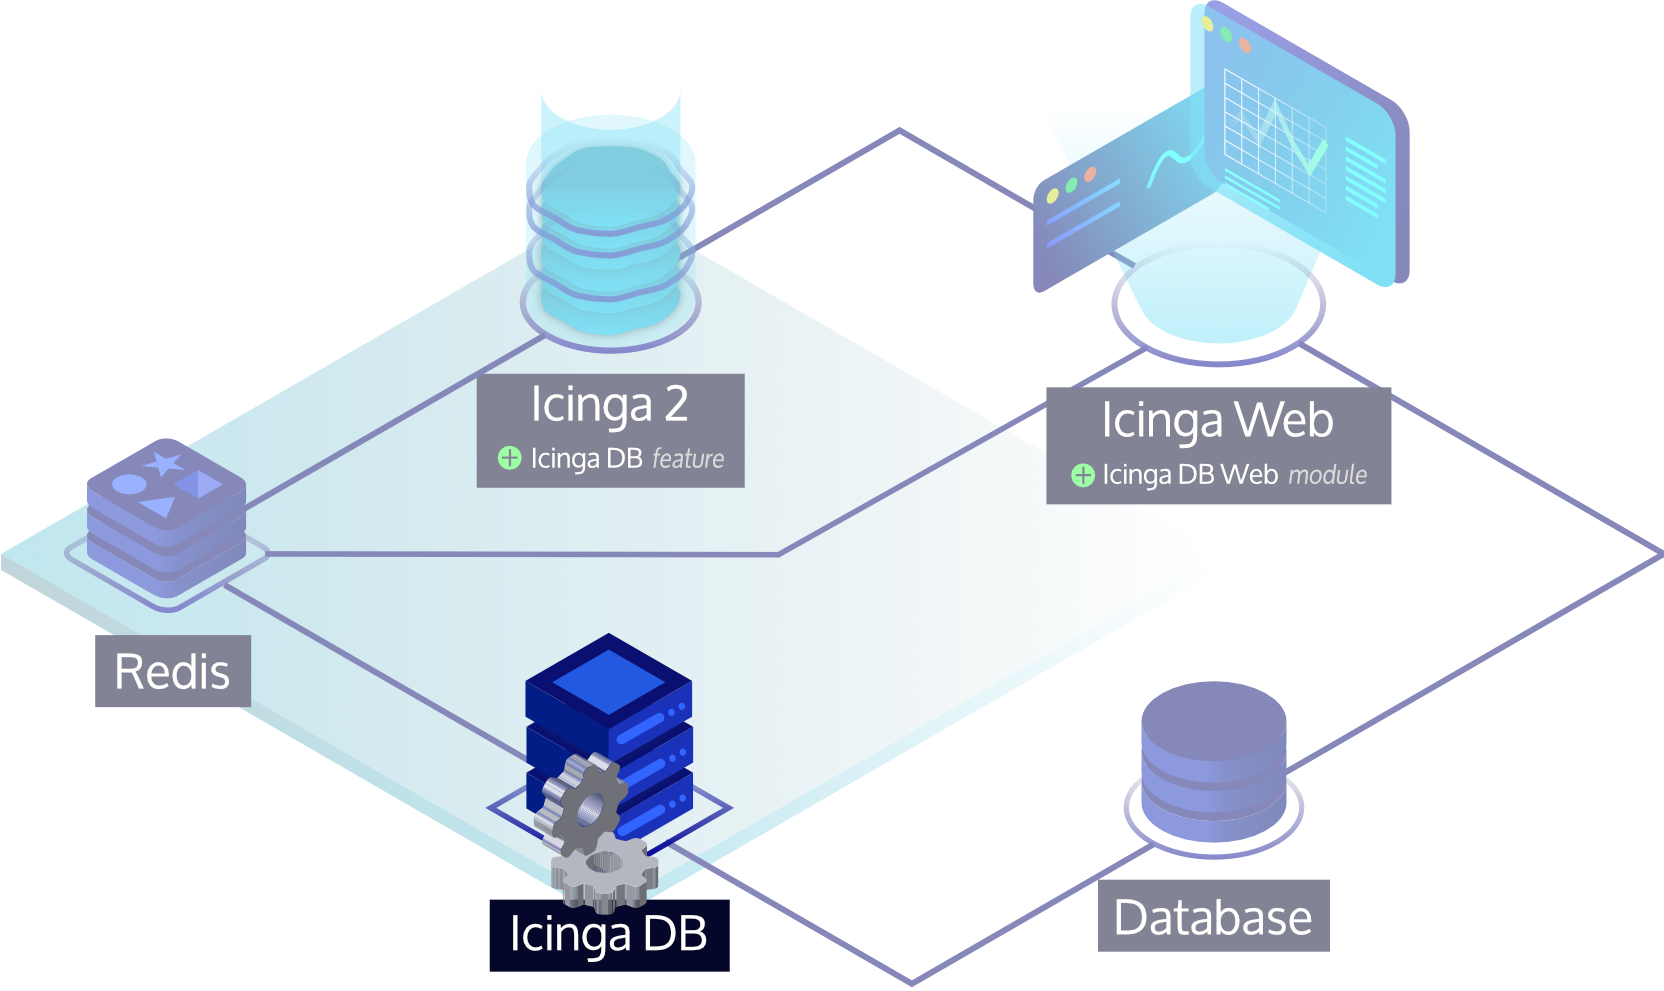
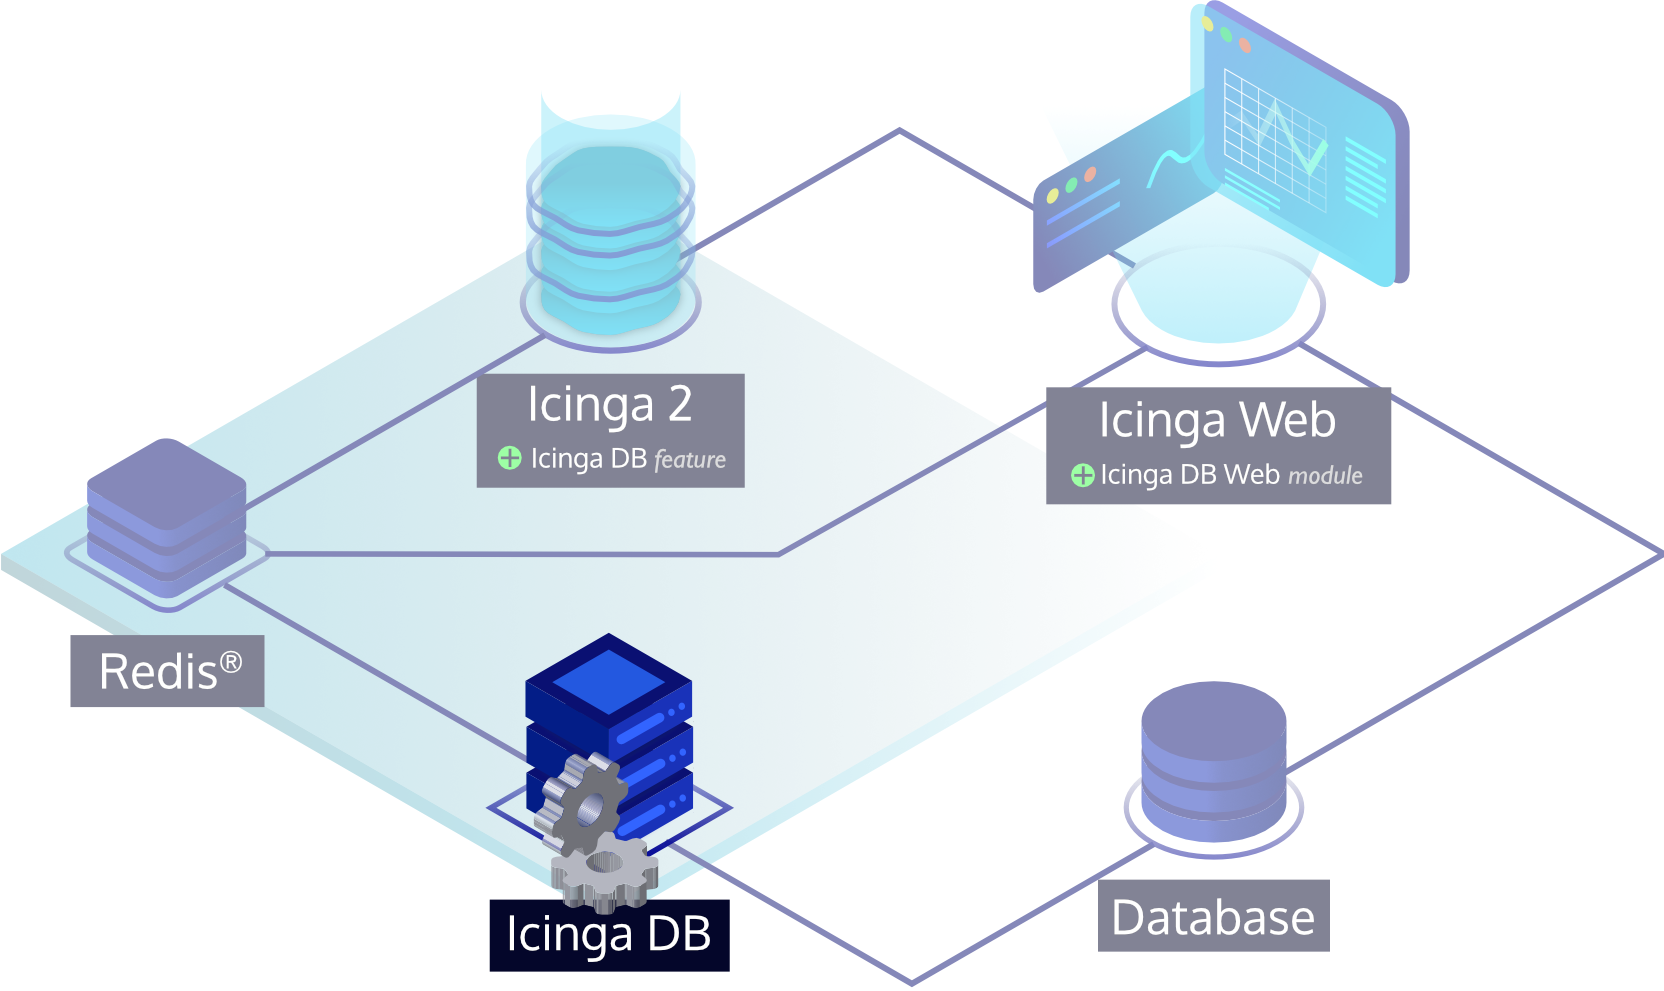
Docs: Account Redis' trademark policy
See https://redis.io/legal/trademark-policy/

diff --git a/doc/03-Configuration.md b/doc/03-Configuration.md
@@ -3,24 +3,24 @@
 The configuration is stored in `/etc/icingadb/config.yml`.
 See [config.example.yml](../config.example.yml) for an example configuration.
 
-## Redis Configuration
+## Redis® Configuration
 
-Connection configuration for the Redis server where Icinga 2 writes its configuration, state and history items.
+Connection configuration for the Redis® server where Icinga 2 writes its configuration, state and history items.
 This is the same connection as configured in the
 [Icinga DB feature](https://icinga.com/docs/icinga-2/latest/doc/14-features/#icinga-db) of
-the corresponding Icinga 2 node. High availability setups require a dedicated Redis server per Icinga 2 node and
+the corresponding Icinga 2 node. High availability setups require a dedicated Redis® server per Icinga 2 node and
 therefore a dedicated Icinga DB instance that connects to it.
 
-| Option   | Description                                                                                                                        |
-|----------|------------------------------------------------------------------------------------------------------------------------------------|
-| host     | **Required.** Redis host or absolute Unix socket path.                                                                             |
-| port     | **Optional.** Redis port. Defaults to `6380` since the Redis server provided by the `icingadb-redis` package listens on that port. |
-| password | **Optional.** The password to use.                                                                                                 |
-| tls      | **Optional.** Whether to use TLS.                                                                                                  |
-| cert     | **Optional.** Path to TLS client certificate.                                                                                      |
-| key      | **Optional.** Path to TLS private key.                                                                                             |
-| ca       | **Optional.** Path to TLS CA certificate.                                                                                          |
-| insecure | **Optional.** Whether not to verify the peer.                                                                                      |
+| Option   | Description                                                                                                             |
+|----------|-------------------------------------------------------------------------------------------------------------------------|
+| host     | **Required.** Host name or address, or absolute Unix socket path.                                                       |
+| port     | **Optional.** TCP port. Defaults to `6380` matching the Redis® open source server port in the `icingadb-redis` package. |
+| password | **Optional.** Authentication password.                                                                                  |
+| tls      | **Optional.** Whether to use TLS.                                                                                       |
+| cert     | **Optional.** Path to TLS client certificate.                                                                           |
+| key      | **Optional.** Path to TLS private key.                                                                                  |
+| ca       | **Optional.** Path to TLS CA certificate.                                                                               |
+| insecure | **Optional.** Whether not to verify the peer.                                                                           |
 
 ## Database Configuration
 
@@ -76,19 +76,19 @@ Configuration of the logging component used by Icinga DB.
 
 ### Logging Components
 
-| Component         | Description                                                                    |
-|-------------------|--------------------------------------------------------------------------------|
-| config-sync       | Config object synchronization between Redis and MySQL.                         |
-| database          | Database connection status and queries.                                        |
-| dump-signals      | Dump signals received from Icinga.                                             |
-| heartbeat         | Icinga heartbeats received through Redis.                                      |
-| high-availability | Manages responsibility of Icinga DB instances.                                 |
-| history-sync      | Synchronization of history entries from Redis to MySQL.                        |
-| overdue-sync      | Calculation and synchronization of the overdue status of checkables.           |
-| redis             | Redis connection status and queries.                                           |
-| retention         | Deletes historical data that exceed their configured retention period.         |
-| runtime-updates   | Runtime updates of config objects after the initial config synchronization.    |
-| telemetry         | Reporting of Icinga DB status to Icinga 2 via Redis (for monitoring purposes). |
+| Component         | Description                                                                     |
+|-------------------|---------------------------------------------------------------------------------|
+| config-sync       | Config object synchronization between Redis® and MySQL.                         |
+| database          | Database connection status and queries.                                         |
+| dump-signals      | Dump signals received from Icinga.                                              |
+| heartbeat         | Icinga heartbeats received through Redis®.                                      |
+| high-availability | Manages responsibility of Icinga DB instances.                                  |
+| history-sync      | Synchronization of history entries from Redis® to MySQL.                        |
+| overdue-sync      | Calculation and synchronization of the overdue status of checkables.            |
+| redis             | Redis® connection status and queries.                                           |
+| retention         | Deletes historical data that exceed their configured retention period.          |
+| runtime-updates   | Runtime updates of config objects after the initial config synchronization.     |
+| telemetry         | Reporting of Icinga DB status to Icinga 2 via Redis® (for monitoring purposes). |
 
 ## Retention
 

diff --git a/doc/04-Upgrading.md b/doc/04-Upgrading.md
@@ -27,7 +27,7 @@ This release includes fixes for hosts and services reaching check attempt 256. H
 the schema upgrade required to fix the history tables isn't automatically applied by `1.1.2.sql` as a rewrite of the
 whole `state_history` table is required. This can take a lot of time depending on the history size and the performance
 of the database. During this time that table will be locked exclusively and can't be accessed otherwise. This means that
-the existing history can't be viewed in Icinga Web and new history entries will be buffered in Redis.
+the existing history can't be viewed in Icinga Web and new history entries will be buffered in Redis®.
 
 There is a separate upgrade script `optional/1.1.2-history.sql` to perform the rewrite of the `state_history` table.
 This allows you to postpone part of the upgrade to a longer maintenance window in the future, or skip it entirely
@@ -103,7 +103,7 @@ For package installations, you can find this file at `/usr/share/icingadb/schema
 
 Note that this upgrade will change the `history` table, which can take some time depending on the size of the table and
 the performance of the database. While the upgrade is running, that table will be locked and can't be accessed. This
-means that the existing history can't be viewed in Icinga Web and new history entries will be buffered in Redis.
+means that the existing history can't be viewed in Icinga Web and new history entries will be buffered in Redis®.
 
 As the daemon checks the schema version, the recommended way to perform the upgrade is to stop the daemon, apply the
 schema upgrade and then start the new daemon version. If you want to minimize downtime as much as possible, it is safe
@@ -124,20 +124,20 @@ restart the daemon when upgrading the package.
 
 ## Upgrading to Icinga DB RC2
 
-Icinga DB RC2 is a complete rewrite compared to RC1. Because of this, a lot has changed in the Redis and database
+Icinga DB RC2 is a complete rewrite compared to RC1. Because of this, a lot has changed in the Redis® and database
 schema, which is why they have to be deleted and recreated. The configuration file has changed from `icingadb.ini`
 to `config.yml`. Instead of the INI format, we are now using YAML and have introduced more configuration options. We
-have also changed the packages of `icingadb-redis`, which is why the Redis CLI commands are now prefixed with `icingadb`
-instead of just `icinga`, i.e. the Redis CLI is now accessed via `icingadb-redis-cli`.
+have also changed the packages of `icingadb-redis`, which is why the Redis® CLI commands are now prefixed with `icingadb`
+instead of just `icinga`, i.e. the Redis® CLI is now accessed via `icingadb-redis-cli`.
 
 Please follow the steps below to upgrade to Icinga DB RC2:
 
 1. Stop Icinga 2 and Icinga DB.
-2. Flush your Redis instances using `icinga-redis-cli flushall` (note the `icinga` prefix as we did not
+2. Flush your Redis® instances using `icinga-redis-cli flushall` (note the `icinga` prefix as we did not
    upgrade `icingadb-redis` yet) and stop them afterwards.
 3. Upgrade Icinga 2 to version 2.13.2 or newer.
 4. Remove the `icinga-redis` package where installed as it may conflict with `icingadb-redis`.
-5. Install Icinga DB Redis (`icingadb-redis`) on your primary Icinga 2 nodes to version 6.2.6 or newer.
+5. Install Redis® (`icingadb-redis`) on your primary Icinga 2 nodes to version 6.2.6 or newer.
 6. Upgrade Icinga DB to RC2.
 7. Drop the Icinga DB MySQL database and recreate it using the provided schema.
-8. Start Icinga DB Redis, Icinga 2 and Icinga DB.
+8. Start Redis®, Icinga 2 and Icinga DB.

diff --git a/doc/05-Distributed-Setups.md b/doc/05-Distributed-Setups.md
@@ -11,22 +11,22 @@ First, you need an Icinga 2 high availability setup with two master nodes, such 
 [here](https://icinga.com/docs/icinga-2/latest/doc/06-distributed-monitoring#high-availability-master-with-agents).
 
 Each of the master nodes must have the Icinga DB feature enabled and
-have their own dedicated Redis server set up for it, so that each node writes the monitoring data separately.
+have their own dedicated Redis® server set up for it, so that each node writes the monitoring data separately.
 The setup steps per node are no different from a single node setup and can be found in the
 [Icinga 2 installation documentation](https://icinga.com/docs/icinga-2/latest/doc/02-installation).
-Each Redis server will always have the complete data available as long as
-its corresponding Icinga 2 master is running and writing to its Redis.
+Each Redis® server will always have the complete data available as long as
+its corresponding Icinga 2 master is running and writing to its Redis®.
 This is because the Icinga 2 master nodes synchronize their data and events with each other as long as
 they are connected,
 and each takes over the entire configuration in case the other node or their connection to each other fails.
 
-For each Redis server you need to set up its own dedicated Icinga DB instance that connects to it,
+For each Redis® server you need to set up its own dedicated Icinga DB instance that connects to it,
 but the Icinga DB instances must write to the same database, which of course can be replicated or a cluster.
 So the steps from the standard
 [Icinga DB installation documentation](https://icinga.com/docs/icinga-db/latest/doc/02-installation)
 can be followed. However, as mentioned, the database only needs to be set up once.
 
-All in all, an Icinga DB HA environment involves setting up two Icinga 2 master nodes, two Redis servers,
+All in all, an Icinga DB HA environment involves setting up two Icinga 2 master nodes, two Redis® servers,
 two Icinga DB instances and one database.
 
 Please read the note about the [environment ID](#environment-id),
@@ -48,9 +48,9 @@ Which Icinga DB instance is responsible is determined by a specific database ope
 can only be performed by one instance first.
 In the case of concurrent operations, simply put, only one wins via a locking mechanism.
 Of course, this is only true if the environment is healthy.
-Icinga DB is not trying to be responsible if its corresponding Redis server is unavailable or
-Icinga 2 is not writing data to Redis.
-If Icinga 2 or Redis become unavailable for more than 60 seconds,
+Icinga DB is not trying to be responsible if its corresponding Redis® server is unavailable or
+Icinga 2 is not writing data to Redis®.
+If Icinga 2 or Redis® become unavailable for more than 60 seconds,
 Icinga DB releases responsibility so the other instance can take over.
 
 ## Multiple Environments

diff --git a/doc/02-Installation.md b/doc/02-Installation.md
@@ -12,15 +12,15 @@ see the [Upgrading](04-Upgrading.md) documentation for the necessary steps.
 ![Icinga DB Daemon](images/icingadb-daemon.png)
 
 Before installing Icinga DB, make sure you have installed [Icinga 2](https://icinga.com/docs/icinga-2),
-set up a Redis server, and enabled the `icingadb` feature.
+set up a Redis® server, and enabled the `icingadb` feature.
 The Icinga 2 installation documentation covers all the necessary steps.
 Additionally, Icinga offers the `icingadb-redis` package for all supported operating systems,
-which ships an up-to-date Redis server version and is pre-configured for the Icinga DB components.
+which ships an up-to-date Redis® open source server version and is pre-configured for the Icinga DB components.
 
 !!! tip
 
     Although Icinga DB can run anywhere in an Icinga environment,
-    we recommend to install it where the corresponding Icinga 2 node and Redis server is running to
+    we recommend to install it where the corresponding Icinga 2 node and Redis® server is running to
     keep latency between the components low.
 
 <!-- {% else %} -->
@@ -271,7 +271,7 @@ psql -U icingadb icingadb < /usr/share/icingadb/schema/pgsql/schema.sql
 
 Icinga DB installs its configuration file to `/etc/icingadb/config.yml`,
 pre-populating most of the settings for a local setup. Before running Icinga DB,
-adjust the Redis and database credentials and, if necessary, the connection configuration.
+adjust the Redis® and database credentials and, if necessary, the connection configuration.
 The configuration file explains general settings.
 All available settings can be found under [Configuration](03-Configuration.md).
 
@@ -286,8 +286,8 @@ systemctl enable --now icingadb
 
 ## Installing Icinga DB Web
 
-With Icinga 2, Redis, Icinga DB and the database fully set up, it is now time to install Icinga DB Web,
-which connects to both Redis and the database to display and work with the monitoring data.
+With Icinga 2, Redis®, Icinga DB and the database fully set up, it is now time to install Icinga DB Web,
+which connects to both Redis® and the database to display and work with the monitoring data.
 
 ![Icinga DB Web](images/icingadb-web.png)
 

diff --git a/README.md b/README.md
@@ -3,13 +3,14 @@
 Icinga DB is a set of components for publishing, synchronizing and
 visualizing monitoring data in the Icinga ecosystem, consisting of:
 
-* The Icinga DB daemon, which synchronizes monitoring data between a Redis server and a database
+* The Icinga DB daemon,
+  which synchronizes monitoring data between a Redis®[\*](doc/TRADEMARKS.md#redis) server and a database
 * Icinga 2 with its [Icinga DB feature](https://icinga.com/docs/icinga-2/latest/doc/14-features/#icinga-db) enabled,
-  responsible for publishing the data to the Redis server, i.e. configuration and its runtime updates, check results,
+  responsible for publishing the data to the Redis® server, i.e. configuration and its runtime updates, check results,
   state changes, downtimes, acknowledgements, notifications, and other events such as flapping
 * And Icinga Web with the
   [Icinga DB Web](https://icinga.com/docs/icinga-db-web) module enabled,
-  which connects to both Redis and the database to display and work with the most up-to-date data
+  which connects to both Redis® and the database to display and work with the most up-to-date data
 
 ![Icinga DB Architecture](doc/images/icingadb-architecture.png)
 

diff --git a/doc/01-About.md b/doc/01-About.md
@@ -3,13 +3,14 @@
 Icinga DB is a set of components for publishing, synchronizing and
 visualizing monitoring data in the Icinga ecosystem, consisting of:
 
-* The Icinga DB daemon, which synchronizes monitoring data between a Redis server and a database
+* The Icinga DB daemon,
+  which synchronizes monitoring data between a Redis®[\*](TRADEMARKS.md#redis) server and a database
 * Icinga 2 with its [Icinga DB feature](https://icinga.com/docs/icinga-2/latest/doc/14-features/#icinga-db) enabled,
-  responsible for publishing the data to the Redis server, i.e. configuration and its runtime updates, check results,
+  responsible for publishing the data to the Redis® server, i.e. configuration and its runtime updates, check results,
   state changes, downtimes, acknowledgements, notifications, and other events such as flapping
 * And Icinga Web with the
   [Icinga DB Web](https://icinga.com/docs/icinga-db-web) module enabled,
-  which connects to both Redis and the database to display and work with the most up-to-date data
+  which connects to both Redis® and the database to display and work with the most up-to-date data
 
 ![Icinga DB Architecture](images/icingadb-architecture.png)
 

diff --git a/doc/TRADEMARKS.md b/doc/TRADEMARKS.md
@@ -1,0 +1,13 @@
+# Third-party Trademarks
+
+All trademarks, logos, and brand names are the property of their respective owners.
+Any mention of company, product, or service names in our documentations, product descriptions,
+or websites is solely for identification purposes. The use of these names, trademarks,
+and brands does not imply endorsement. This document acknowledges trademarks of companies and products,
+which are the property of their respective owners, whether registered or unregistered.
+
+## Redis®
+
+Redis is a registered trademark of Redis Ltd. Any rights therein are reserved to Redis Ltd.
+Any use by Icinga GmbH is for referential purposes only and does not indicate any sponsorship,
+endorsement or affiliation between Redis and Icinga GmbH.
